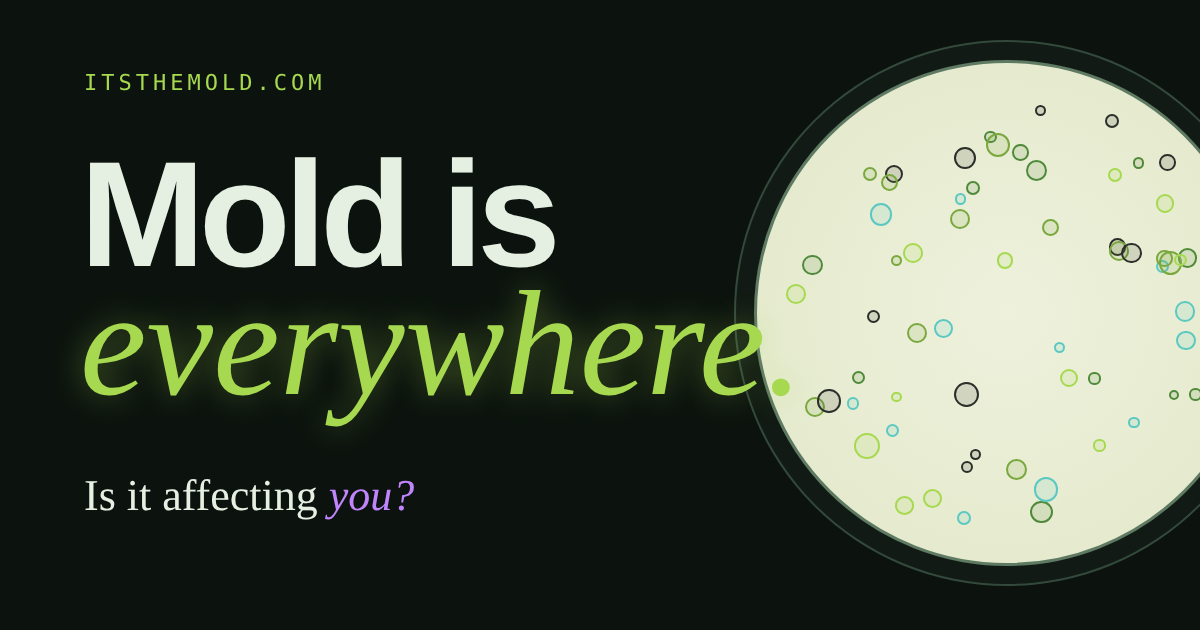
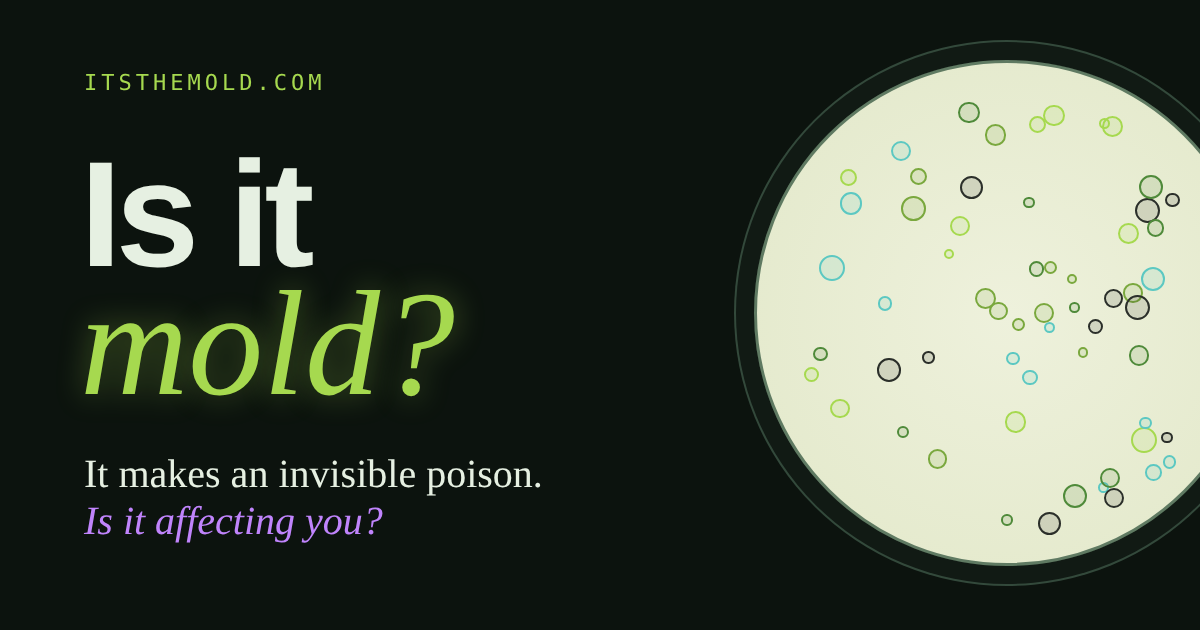
Lead with "Is it mold?" and the invisible mycotoxin story
New opening headline and a section right after it that shows mold
releasing invisible mycotoxins: a see/really-there room toggle, the
water-to-you chain, a size scale, every symptom group, and the quick
check moved below it. Menu, share text and image updated.

Claude-Session: https://claude.ai/code/session_01Ge5A7YUbemzf5xRVuKxGJ1

diff --git a/index.html b/index.html
@@ -3,9 +3,9 @@
 <head>
 <meta charset="utf-8">
 <meta name="viewport" content="width=device-width, initial-scale=1, viewport-fit=cover">
-<meta name="description" content="Mold is everywhere. Learn how mold and mycotoxins make you sick, where mold hides in your home, and how to clear it out with HOCl, chlorine dioxide and a full reset.">
+<meta name="description" content="Is it mold? Mold makes invisible poisons called mycotoxins that can affect your brain, breathing, energy and skin. Learn how and mycotoxins make you sick, where mold hides in your home, and how to clear it out with HOCl, chlorine dioxide and a full reset.">
 <meta property="og:title" content="It's The Mold">
-<meta property="og:description" content="Mold is everywhere. Is it affecting you?">
+<meta property="og:description" content="Mold makes an invisible poison. Could it be affecting you?">
 <meta property="og:url" content="https://itsthemold.com/">
 <meta property="og:image" content="https://itsthemold.com/og-image.png">
 <meta name="twitter:card" content="summary_large_image">
@@ -765,6 +765,82 @@ footer{position:relative;overflow:hidden;background:radial-gradient(70% 120% at 
 footer .wrap{position:relative}
 
 @media (prefers-reduced-motion:reduce){.creep,.ch-num::before{animation:none}}
+/* ===== hero + invisible toxin section ===== */
+.top h1{max-width:none}
+.top-lead{margin-top:22px;max-width:44ch;font-size:clamp(1.12rem,1.9vw,1.4rem);line-height:1.45;color:var(--text2)}
+.top-lead b{color:var(--magenta);font-weight:600}
+.top-cta{margin-top:30px;display:flex;flex-wrap:wrap;gap:12px}
+.btn-mold,.btn-ghost{display:inline-flex;align-items:center;padding:14px 22px;border-radius:99px;font-weight:600;text-decoration:none;font-size:1rem;transition:transform .2s,box-shadow .2s}
+.btn-mold{background:var(--mold);color:var(--void);box-shadow:0 0 30px rgba(166,217,79,.35)}
+.btn-ghost{border:1px solid var(--line-2);color:var(--ink);background:rgba(21,32,25,.7)}
+.btn-mold:hover,.btn-ghost:hover{transform:translateY(-2px)}
+.ticker{color:var(--ink)}
+#tick{color:var(--mold)}
+
+.inv{padding-block:clamp(56px,8vw,110px);background:radial-gradient(60% 50% at 80% 20%,rgba(192,132,252,.1),transparent 70%)}
+.inv-head{display:grid;gap:16px;justify-items:start;margin-bottom:clamp(28px,4vw,44px)}
+.inv-head h2{font-size:clamp(2.6rem,7.6vw,6rem);font-weight:700;font-variation-settings:"wdth" 80;line-height:.9;letter-spacing:-.04em;max-width:13ch}
+.inv-head h2 em.s{color:var(--magenta);text-shadow:0 0 34px rgba(192,132,252,.4)}
+.inv-head p{font-size:1.15rem;color:var(--text2);max-width:58ch}
+.inv-stage{padding:14px;display:grid;gap:12px}
+.inv-toggle{display:inline-flex;justify-self:start;padding:4px;border-radius:99px;border:1px solid var(--line-2);background:var(--deep)}
+.inv-toggle button{all:unset;cursor:pointer;padding:10px 18px;border-radius:99px;font-family:var(--f-mono);font-size:.72rem;letter-spacing:.1em;text-transform:uppercase;color:var(--muted);transition:.25s}
+.inv-toggle button[aria-selected="true"]{background:var(--magenta);color:var(--void)}
+.inv-toggle button:first-child[aria-selected="true"]{background:var(--ink)}
+.inv-toggle button:focus-visible{outline:2px solid var(--mold);outline-offset:2px}
+#room{width:100%;display:block;border-radius:16px;border:1px solid var(--line)}
+#room .toxins,#room .hits,#room .hit-labels{transition:opacity .7s}
+#room .clean-label{transition:opacity .7s;opacity:0}
+#room.see .toxins,#room.see .hits,#room.see .hit-labels{opacity:0}
+#room.see .clean-label{opacity:1}
+.inv-cap{font-size:1rem;color:var(--ink);padding:0 6px 6px;min-height:1.6em}
+.inv-cap b{color:var(--magenta)}
+.svgwrap{overflow-x:auto}
+
+.chain{list-style:none;margin:18px 0 0;padding:0;display:grid;grid-template-columns:repeat(4,minmax(0,1fr));gap:0;counter-reset:c;border:1px solid var(--line);border-radius:24px;overflow:hidden;background:var(--panel)}
+.chain li{padding:22px 22px 24px;display:grid;gap:8px;align-content:start;position:relative}
+.chain li+li{border-left:1px solid var(--line)}
+.chain li+li::before{content:"→";position:absolute;left:-12px;top:30px;width:22px;height:22px;border-radius:50%;background:var(--deep);border:1px solid var(--line-2);display:grid;place-items:center;font-size:.75rem;color:var(--muted);z-index:1}
+.ci{width:44px;height:44px;border-radius:50%;display:grid;place-items:center;border:1.5px solid var(--k);box-shadow:0 0 18px color-mix(in srgb,var(--k) 30%,transparent)}
+.ci svg{width:24px;height:24px}
+.chain b{font-family:var(--f-display);font-size:1.2rem;font-weight:600}
+.chain p{font-size:.92rem;color:var(--text2)}
+.chain li:nth-child(3){background:linear-gradient(180deg,rgba(192,132,252,.1),transparent)}
+.chain li:nth-child(3) b{color:var(--magenta)}
+
+.scale{margin-top:18px;padding:26px;display:grid;gap:20px}
+.scale-top{display:flex;justify-content:space-between;align-items:baseline;gap:12px;flex-wrap:wrap}
+.scale-top h3{font-size:1.5rem;font-weight:600}
+.scale-row{display:grid;grid-template-columns:repeat(4,minmax(0,1fr));gap:12px;align-items:end}
+.sz{display:grid;justify-items:center;text-align:center;gap:4px;padding:14px 8px;border-radius:16px}
+.sz i{display:block;width:var(--d);height:var(--d);border-radius:50%;background:var(--c,#bccbbd);box-shadow:0 0 18px var(--c,transparent);margin-bottom:10px}
+.sz:first-child i{width:100%;max-width:120px;height:6px;border-radius:3px;background:#8a7a5c;box-shadow:none;margin-bottom:24px}
+.sz b{font-size:1rem}
+.sz span{font-family:var(--f-mono);font-size:.72rem;color:var(--muted);font-variant-numeric:tabular-nums}
+.sz em{font-style:normal;font-size:.82rem;color:var(--text2)}
+.sz.hot{background:linear-gradient(180deg,rgba(192,132,252,.12),transparent);border:1px solid rgba(192,132,252,.35)}
+.sz.hot b,.sz.hot span{color:var(--magenta)}
+.sz.hot i{animation:pulse 1.6s ease-in-out infinite}
+@keyframes pulse{50%{transform:scale(1.8);opacity:.6}}
+.scale-note{font-size:.92rem;color:var(--text2);border-top:1px solid var(--line);padding-top:16px}
+
+.symgrid{display:grid;grid-template-columns:repeat(4,minmax(0,1fr));gap:14px}
+.sg{padding:22px;display:grid;gap:14px;align-content:start;border-top:3px solid var(--k)!important}
+.sg-top{display:flex;align-items:center;gap:12px}
+.sg-ic{width:44px;height:44px;border-radius:12px;display:grid;place-items:center;color:var(--k);background:color-mix(in srgb,var(--k) 14%,transparent)}
+.sg-ic svg{width:28px;height:28px}
+.sg h4{font-size:1.25rem;font-weight:600}
+.sg ul{list-style:none;margin:0;padding:0;display:flex;flex-wrap:wrap;gap:6px}
+.sg li{font-size:.86rem;padding:6px 10px;border-radius:99px;border:1px solid color-mix(in srgb,var(--k) 40%,transparent);color:var(--ink)}
+.sym-note{margin-top:14px;font-size:.86rem;color:var(--muted);max-width:80ch}
+
+.inv .check{margin-top:clamp(36px,5vw,56px);max-width:none;padding:clamp(20px,3vw,32px);gap:18px;border-color:rgba(166,217,79,.3)}
+.check-head{display:grid;gap:8px}
+.check-head .ask{margin-top:0;font-size:clamp(2rem,4.6vw,3.4rem)}
+.qc button{font-size:.98rem;padding:11px 16px}
+
+@media (max-width:980px){.symgrid{grid-template-columns:1fr 1fr}.chain{grid-template-columns:1fr 1fr}.chain li:nth-child(3){border-left:0}.chain li:nth-child(n+3){border-top:1px solid var(--line)}.chain li:nth-child(3)::before{display:none}}
+@media (max-width:620px){.symgrid,.chain{grid-template-columns:1fr}.chain li+li{border-left:0;border-top:1px solid var(--line)}.chain li+li::before{left:22px;top:-12px;content:"↓"}.chain li:nth-child(3)::before{display:grid}.scale-row{grid-template-columns:1fr 1fr}#room{min-width:620px}.svgwrap{margin:0 -4px}}
 </style>
 </head>
 <body>
@@ -782,7 +858,7 @@ footer .wrap{position:relative}
       <path d="M14 18 A18 18 0 0 1 24 12.6" fill="none" stroke="#fff" stroke-opacity=".7" stroke-width="1.6" stroke-linecap="round"/>
       <text x="58" y="41" font-size="34" font-weight="800" letter-spacing="-1.2" fill="#e6f0e2">its<tspan font-family="Instrument Serif, Georgia, serif" font-style="italic" font-weight="400" fill="#a6d94f" font-size="38" dx="2" letter-spacing="0">the</tspan><tspan dx="2">mold</tspan></text>
     </svg></a>
-    <nav class="menu" id="menu" aria-label="Site"><ul id="menu-list"><li><a href="#top">Start</a></li><li><a href="#sick">Sick</a></li><li><a href="#brain">Brain</a></li><li><a href="#toxins">Toxins</a></li><li><a href="#hides">Where it hides</a></li><li><a href="#fix">Solutions</a></li><li><a href="#body">Your body</a></li></ul></nav>
+    <nav class="menu" id="menu" aria-label="Site"><ul id="menu-list"><li><a href="#top">Start</a></li><li><a href="#invisible">The toxin</a></li><li><a href="#sick">How it gets in</a></li><li><a href="#brain">Brain</a></li><li><a href="#toxins">Molds</a></li><li><a href="#hides">Where it hides</a></li><li><a href="#fix">Solutions</a></li><li><a href="#body">Your body</a></li></ul></nav>
   </div>
   <div class="progress" id="progress"></div>
 </header>
@@ -790,25 +866,161 @@ footer .wrap{position:relative}
 <section class="top" id="top">
   <canvas id="swarm" aria-hidden="true"></canvas>
   <div class="wrap top-in">
-    <span class="eyebrow mono"><b>SAMPLE 01</b> Spores are too small to see</span>
-    <h1>Mold is <em class="s">everywhere.</em></h1>
-    <p class="ticker">It's in <span id="tick">the air you breathe.</span></p>
-    <p class="ask">Is it affecting <em class="s">you?</em></p>
-    <div class="check panel" aria-labelledby="qc-h">
-      <p class="mono" id="qc-h">Quick check · tap what sounds like you</p>
+    <span class="eyebrow mono"><b>SAMPLE 01</b> You can't see it</span>
+    <h1>Is it <em class="s">mold?</em></h1>
+    <p class="ticker">That <span id="tick">brain fog that won't lift.</span></p>
+    <p class="top-lead">Mold makes an invisible poison called <b>mycotoxins</b>. You can't see it. You can't smell it. But it can be the reason you feel sick.</p>
+    <div class="top-cta">
+      <a class="btn-mold" href="#invisible">See what's really in the air ↓</a>
+      <a class="btn-ghost" href="#check">Take the 30-second check</a>
+    </div>
+  </div>
+</section>
+
+<div class="creep" aria-hidden="true"></div>
+<section class="inv" id="invisible">
+  <div class="wrap">
+    <div class="inv-head">
+      <span class="eyebrow mono"><b>THE HIDDEN PART</b> What mold leaves in the air</span>
+      <h2>Mold makes a poison <em class="s">you can't see.</em></h2>
+      <p>Mold is the fuzzy part you can see. Mycotoxins are the poisons it makes, and they are thousands of times smaller. They ride on dust into the air you breathe, in a room that looks perfectly clean.</p>
+    </div>
+
+    <div class="inv-stage panel">
+      <div class="inv-toggle" role="tablist" aria-label="Choose a view">
+        <button type="button" role="tab" id="v-see" aria-selected="false">What you see</button>
+        <button type="button" role="tab" id="v-real" aria-selected="true">What's really there</button>
+      </div>
+      <div class="svgwrap"><svg viewBox="0 0 900 420" role="img" aria-label="A room with mold on the wall. In the real view, invisible mycotoxins drift from the mold into a person and reach the brain, nose, lungs, gut and skin." id="room" class="is-real">
+        <defs>
+          <radialGradient id="rmglow" cx="50%" cy="50%" r="50%"><stop offset="0" stop-color="#c084fc" stop-opacity=".55"/><stop offset="1" stop-color="#c084fc" stop-opacity="0"/></radialGradient>
+          <g id="tx"><polygon points="-6,0 -3,-5.2 3,-5.2 6,0 3,5.2 -3,5.2" fill="#2a1c3d" stroke="#c084fc" stroke-width="1.6"/><circle r="1.8" fill="#c084fc"/></g>
+          <path id="fl1" d="M150 150 C 300 110, 450 220, 530 120"/>
+          <path id="fl2" d="M170 210 C 320 260, 470 120, 540 175"/>
+          <path id="fl3" d="M130 260 C 280 330, 480 280, 545 235"/>
+          <path id="fl4" d="M190 120 C 360 40, 520 90, 530 95"/>
+          <path id="fl5" d="M160 300 C 330 380, 500 330, 540 290"/>
+        </defs>
+        <!-- room -->
+        <rect x="0" y="0" width="900" height="420" fill="#121c16"/>
+        <rect x="0" y="0" width="300" height="420" fill="#17241c"/>
+        <path d="M0 360 H900 V420 H0z" fill="#0e1611"/><path d="M0 360 H900" stroke="#2c3f33" stroke-width="2"/>
+        <path d="M300 0 V360" stroke="#22322a" stroke-width="2"/>
+        <!-- window -->
+        <rect x="380" y="50" width="130" height="110" rx="4" fill="#1b2a22" stroke="#33493b" stroke-width="3"/><path d="M445 50 v110 M380 105 h130" stroke="#33493b" stroke-width="2"/>
+        <!-- water stain + mold patch -->
+        <path d="M40 40 q40 -10 80 10 q50 30 40 90 q-10 60 30 110 q30 40 -10 70 q-60 30 -110 -10 q-40 -40 -20 -110 q10 -60 -10 -160z" fill="#3a3320" opacity=".45"/>
+        <g filter="url(#fuzzs)">
+          <circle cx="110" cy="160" r="46" fill="#2c4a25"/><circle cx="80" cy="220" r="38" fill="#24391f"/><circle cx="150" cy="230" r="30" fill="#3a5e2c"/><circle cx="120" cy="290" r="26" fill="#22331d"/><circle cx="70" cy="130" r="22" fill="#4f8a3a"/><circle cx="160" cy="130" r="16" fill="#a6d94f" opacity=".7"/><circle cx="60" cy="280" r="14" fill="#a6d94f" opacity=".55"/><circle cx="170" cy="180" r="10" fill="#5cc8c2" opacity=".5"/>
+          <circle cx="104" cy="166" r="14" fill="#1b2a17"/><circle cx="86" cy="226" r="11" fill="#1b2a17"/><circle cx="150" cy="236" r="9" fill="#1b2a17"/>
+          <animateTransform attributeName="transform" type="scale" values="1;1.025;1" dur="5s" repeatCount="indefinite" additive="sum"/>
+        </g>
+        <text x="40" y="345" class="rl" font-family="Geist Mono,monospace" font-size="12" letter-spacing="1.5" fill="#a6d94f">MOLD · YOU CAN SEE THIS</text>
+        <g transform="translate(-110 0)">
+        <!-- person -->
+        <g id="person">
+          <circle cx="720" cy="92" r="34" fill="#1d2b23" stroke="#bccbbd" stroke-width="2.4"/>
+          <path d="M672 360 V200 q0 -60 48 -66 q48 6 48 66 V360" fill="#1d2b23" stroke="#bccbbd" stroke-width="2.4"/>
+          <path d="M672 210 q-30 40 -26 110 M768 210 q30 40 26 110" fill="none" stroke="#bccbbd" stroke-width="2.4" stroke-linecap="round"/>
+        </g>
+        <!-- hit points on person -->
+        <g class="hits">
+          <g><circle cx="720" cy="80" r="18" fill="url(#rmglow)"><animate attributeName="r" values="12;24;12" dur="2.2s" repeatCount="indefinite"/></circle><circle cx="720" cy="80" r="4" fill="#c084fc"/></g>
+          <g><circle cx="738" cy="104" r="14" fill="url(#rmglow)"><animate attributeName="r" values="10;18;10" dur="2s" begin="-.4s" repeatCount="indefinite"/></circle><circle cx="738" cy="104" r="3.4" fill="#c084fc"/></g>
+          <g><circle cx="706" cy="190" r="18" fill="url(#rmglow)"><animate attributeName="r" values="12;24;12" dur="2.4s" begin="-.8s" repeatCount="indefinite"/></circle><circle cx="706" cy="190" r="4" fill="#c084fc"/></g>
+          <g><circle cx="726" cy="262" r="16" fill="url(#rmglow)"><animate attributeName="r" values="10;22;10" dur="2.6s" begin="-1.2s" repeatCount="indefinite"/></circle><circle cx="726" cy="262" r="4" fill="#c084fc"/></g>
+          <g><circle cx="652" cy="290" r="14" fill="url(#rmglow)"><animate attributeName="r" values="8;18;8" dur="2.2s" begin="-1.6s" repeatCount="indefinite"/></circle><circle cx="652" cy="290" r="3.4" fill="#c084fc"/></g>
+        </g>
+        <g class="hit-labels" font-family="Geist Mono,monospace" font-size="11.5" letter-spacing="1.2" fill="#e6f0e2">
+          <text x="770" y="62">BRAIN FOG · HEADACHES</text>
+          <text x="782" y="110">STUFFY NOSE · SINUS</text>
+          <text x="782" y="194">COUGH · TIGHT CHEST</text>
+          <text x="782" y="266">NAUSEA · FATIGUE</text>
+          <text x="632" y="294" text-anchor="end">RASHES · ACHES</text>
+        </g>
+        </g>
+        <!-- toxins in the air -->
+        <g class="toxins">
+          <use href="#tx"><animateMotion dur="5s" repeatCount="indefinite"><mpath href="#fl1"/></animateMotion></use>
+          <use href="#tx"><animateMotion dur="5s" begin="-2.5s" repeatCount="indefinite"><mpath href="#fl1"/></animateMotion></use>
+          <use href="#tx"><animateMotion dur="5.6s" begin="-1s" repeatCount="indefinite"><mpath href="#fl2"/></animateMotion></use>
+          <use href="#tx"><animateMotion dur="5.6s" begin="-3.8s" repeatCount="indefinite"><mpath href="#fl2"/></animateMotion></use>
+          <use href="#tx"><animateMotion dur="6s" begin="-2s" repeatCount="indefinite"><mpath href="#fl3"/></animateMotion></use>
+          <use href="#tx"><animateMotion dur="6s" begin="-4.6s" repeatCount="indefinite"><mpath href="#fl3"/></animateMotion></use>
+          <use href="#tx"><animateMotion dur="5.2s" begin="-.5s" repeatCount="indefinite"><mpath href="#fl4"/></animateMotion></use>
+          <use href="#tx"><animateMotion dur="5.2s" begin="-3s" repeatCount="indefinite"><mpath href="#fl4"/></animateMotion></use>
+          <use href="#tx"><animateMotion dur="6.4s" begin="-1.4s" repeatCount="indefinite"><mpath href="#fl5"/></animateMotion></use>
+          <use href="#tx"><animateMotion dur="6.4s" begin="-4.2s" repeatCount="indefinite"><mpath href="#fl5"/></animateMotion></use>
+          <g fill="#c084fc" opacity=".55">
+            <circle r="1.6"><animateMotion dur="4.2s" repeatCount="indefinite"><mpath href="#fl2"/></animateMotion></circle>
+            <circle r="1.4"><animateMotion dur="3.8s" begin="-1.6s" repeatCount="indefinite"><mpath href="#fl1"/></animateMotion></circle>
+            <circle r="1.6"><animateMotion dur="4.6s" begin="-2.2s" repeatCount="indefinite"><mpath href="#fl3"/></animateMotion></circle>
+            <circle r="1.3"><animateMotion dur="4s" begin="-3s" repeatCount="indefinite"><mpath href="#fl4"/></animateMotion></circle>
+            <circle r="1.5"><animateMotion dur="4.4s" begin="-.8s" repeatCount="indefinite"><mpath href="#fl5"/></animateMotion></circle>
+          </g>
+          <text x="330" y="398" text-anchor="middle" font-family="Geist Mono,monospace" font-size="12" letter-spacing="1.5" fill="#c084fc">MYCOTOXINS · INVISIBLE · NO SMELL</text>
+        </g>
+        <g class="clean-label"><text x="480" y="250" text-anchor="middle" font-family="Geist Mono,monospace" font-size="13" letter-spacing="1.6" fill="#8fa392">THE AIR LOOKS CLEAN</text></g>
+      </svg></div>
+      <p class="inv-cap" id="inv-cap">Toxins ride on dust from the mold to you. They reach your brain, nose, lungs, gut and skin.</p>
+    </div>
+
+    <ol class="chain">
+      <li><span class="ci" style="--k:var(--amber)"><svg viewBox="0 0 24 24" aria-hidden="true"><path d="M12 3 q-7 9 -7 13 a7 7 0 0 0 14 0 q0 -4 -7 -13z" fill="none" stroke="#e3b341" stroke-width="2"/></svg></span><b>Water gets in</b><p>A leak, a flood, high humidity or a sweaty window. Mold needs 24–48 hours to start.</p></li>
+      <li><span class="ci" style="--k:var(--mold)"><svg viewBox="0 0 24 24" aria-hidden="true"><g filter="url(#fuzzs)"><circle cx="12" cy="12" r="7" fill="#a6d94f"/><circle cx="12" cy="12" r="3" fill="#3a5e2c"/></g></svg></span><b>Mold grows</b><p>Often where you can't see it: behind walls, under floors, inside the AC.</p></li>
+      <li><span class="ci" style="--k:var(--magenta)"><svg viewBox="0 0 24 24" aria-hidden="true"><polygon points="4,12 8,5 16,5 20,12 16,19 8,19" fill="none" stroke="#c084fc" stroke-width="2"/><circle cx="12" cy="12" r="2.4" fill="#c084fc"/></svg></span><b>It releases mycotoxins</b><p>Invisible poisons with no smell. They stick to dust and float through the whole home.</p></li>
+      <li><span class="ci" style="--k:var(--ink)"><svg viewBox="0 0 24 24" aria-hidden="true"><circle cx="12" cy="6" r="3.4" fill="none" stroke="#e6f0e2" stroke-width="2"/><path d="M5 22 v-6 q0 -6 7 -6 q7 0 7 6 v6" fill="none" stroke="#e6f0e2" stroke-width="2"/></svg></span><b>You breathe them in</b><p>Every day you're home. Your body reacts, and it can look like a lot of other problems.</p></li>
+    </ol>
+
+    <div class="scale panel">
+      <div class="scale-top"><h3>How small is a mycotoxin?</h3><span class="mono muted">Each step is about 10× smaller</span></div>
+      <div class="scale-row">
+        <div class="sz"><i style="--d:96px"></i><b>Human hair</b><span>~70 µm wide</span><em>You can see it</em></div>
+        <div class="sz"><i style="--d:40px;--c:var(--moss)"></i><b>Mold spore</b><span>2–10 µm</span><em>Need a microscope</em></div>
+        <div class="sz"><i style="--d:14px;--c:var(--cyan)"></i><b>Mold fragment</b><span>under 1 µm</span><em>Passes most filters</em></div>
+        <div class="sz hot"><i style="--d:4px;--c:var(--magenta)"></i><b>Mycotoxin</b><span>about 1 nanometer</span><em>A single molecule</em></div>
+      </div>
+      <p class="scale-note">The musty smell comes from gases the mold gives off, not from the toxins. Mycotoxins have no smell, so a home can smell fine and still have them.</p>
+    </div>
+
+    <div class="sub-h"><h3>Mycotoxins can show up as</h3><span class="mono">Every part of you</span></div>
+    <div class="symgrid">
+      <article class="sg panel" style="--k:var(--magenta)">
+        <div class="sg-top"><span class="sg-ic"><svg viewBox="0 0 40 40" aria-hidden="true"><path d="M20 6 c-8 0 -13 5 -13 11 c0 4 2 6 2 9 c0 4 4 7 8 7 h6 c4 0 8 -3 8 -7 c0 -3 2 -5 2 -9 c0 -6 -5 -11 -13 -11z" fill="none" stroke="currentColor" stroke-width="2.2"/><path d="M20 8 v24 M13 15 q4 2 7 0 M20 20 q4 2 7 0" fill="none" stroke="currentColor" stroke-width="1.6"/></svg></span><h4>Brain &amp; mood</h4></div>
+        <ul><li>Brain fog</li><li>Headaches</li><li>Trouble focusing</li><li>Memory slips</li><li>Anxiety or low mood</li><li>Dizziness</li></ul>
+      </article>
+      <article class="sg panel" style="--k:var(--cyan)">
+        <div class="sg-top"><span class="sg-ic"><svg viewBox="0 0 40 40" aria-hidden="true"><path d="M20 6 v12 M20 18 q-4 2 -8 6 q-5 6 -4 10 q2 2 6 0 q4 -3 6 -10 M20 18 q4 2 8 6 q5 6 4 10 q-2 2 -6 0 q-4 -3 -6 -10" fill="none" stroke="currentColor" stroke-width="2.2" stroke-linejoin="round"/></svg></span><h4>Breathing</h4></div>
+        <ul><li>Stuffy nose that won't quit</li><li>Sinus pressure</li><li>Cough or wheeze</li><li>Asthma flares</li><li>Sore throat</li><li>Itchy, watery eyes</li></ul>
+      </article>
+      <article class="sg panel" style="--k:var(--amber)">
+        <div class="sg-top"><span class="sg-ic"><svg viewBox="0 0 40 40" aria-hidden="true"><rect x="7" y="13" width="22" height="14" rx="3" fill="none" stroke="currentColor" stroke-width="2.2"/><rect x="29" y="17" width="4" height="6" rx="1" fill="currentColor"/><rect x="10" y="16" width="5" height="8" rx="1" fill="currentColor"/></svg></span><h4>Energy &amp; sleep</h4></div>
+        <ul><li>Tired no matter how much you sleep</li><li>Poor sleep</li><li>Weakness</li><li>Feeling “off” at home</li><li>Better when you travel</li></ul>
+      </article>
+      <article class="sg panel" style="--k:var(--mold)">
+        <div class="sg-top"><span class="sg-ic"><svg viewBox="0 0 40 40" aria-hidden="true"><circle cx="20" cy="9" r="4" fill="none" stroke="currentColor" stroke-width="2.2"/><path d="M12 36 v-12 q0 -9 8 -9 q8 0 8 9 v12" fill="none" stroke="currentColor" stroke-width="2.2"/><circle cx="17" cy="24" r="1.6" fill="currentColor"/><circle cx="23" cy="28" r="1.6" fill="currentColor"/></svg></span><h4>Body &amp; skin</h4></div>
+        <ul><li>Muscle or joint aches</li><li>Rashes and itchy skin</li><li>Nausea or belly upset</li><li>Sensitive to smells and chemicals</li><li>Numbness or tingling</li></ul>
+      </article>
+    </div>
+    <p class="sym-note">The link between damp, moldy homes and breathing problems is well proven. The other symptoms are commonly reported by people living in water-damaged buildings and are still being studied. Many other things can cause them too, so talk to a doctor.</p>
+
+    <div class="check panel" id="check" aria-labelledby="qc-h">
+      <div class="check-head"><p class="ask">Could mold be affecting <em class="s">you?</em></p><p class="mono" id="qc-h">Tap everything that sounds like you</p></div>
       <div class="qc" id="qc">
         <button type="button" aria-pressed="false">Stuffy nose that won't quit</button>
         <button type="button" aria-pressed="false">Brain fog</button>
         <button type="button" aria-pressed="false">Headaches</button>
         <button type="button" aria-pressed="false">Tired no matter what</button>
-        <button type="button" aria-pressed="false">Musty smell at home</button>
-        <button type="button" aria-pressed="false">Feel better when you travel</button>
         <button type="button" aria-pressed="false">Cough or wheeze</button>
+        <button type="button" aria-pressed="false">Achy or itchy</button>
+        <button type="button" aria-pressed="false">Musty smell at home</button>
         <button type="button" aria-pressed="false">Water leak in the past</button>
+        <button type="button" aria-pressed="false">Feel better when you travel</button>
+        <button type="button" aria-pressed="false">Others at home feel it too</button>
       </div>
       <div class="qc-out">
         <p id="qc-msg"><b id="qc-n">0</b> <span>Tap any that fit.</span></p>
-        <div class="qc-cta"><a href="#sick">See how it makes you sick ↓</a><a href="#fix" class="hot">Jump to solutions →</a></div>
+        <div class="qc-cta"><a href="#sick">See how it gets in ↓</a><a href="#hides">Find where it hides</a><a href="#fix" class="hot">Get rid of it →</a></div>
       </div>
     </div>
   </div>
@@ -818,9 +1030,9 @@ footer .wrap{position:relative}
 <section class="sick" id="sick">
   <div class="wrap">
     <div class="sick-head">
-      <span class="eyebrow mono"><b>SAMPLE 02</b> What happens next</span>
+      <span class="eyebrow mono"><b>SAMPLE 02</b> How it gets in</span>
       <h2>Mold makes you <em class="s">sick.</em></h2>
-      <p>Here's how it gets you, in five moves. Tap one to see where it happens.</p>
+      <p>Here's the path mycotoxins and spores take through your body, in five moves. Tap one to see where it happens.</p>
     </div>
     <div class="sick-grid">
       <div class="body-fig panel">
@@ -1618,13 +1830,24 @@ function growMold(c,host,opt){
 (()=>{
   growMold($('#swarm'),$('.top'));
   growMold($('#footcolony'),$('footer'),{max:5,seed:4,bg:null,interact:false,spores:false});
-  const words=['the air you breathe.','the wall behind your shower.','the cabinet under your sink.','your AC vents.','the basement carpet.','that “old house” smell.','your lungs. Right now?'];
+  const words=['brain fog that won\'t lift.','stuffy nose that never clears.','headache every afternoon.','tired that sleep won\'t fix.','cough that hangs on.','feeling better when you leave home.'];
   let wi=0;const tk=$('#tick');
   if(!REDUCE)setInterval(()=>{tk.classList.add('out');setTimeout(()=>{wi=(wi+1)%words.length;tk.textContent=words[wi];tk.classList.remove('out')},350)},2200);
   const btns=$$('#qc button'),n=$('#qc-n'),msg=$('#qc-msg span');
   btns.forEach(b=>b.addEventListener('click',()=>{b.setAttribute('aria-pressed',b.getAttribute('aria-pressed')!=='true');
     const k=btns.filter(z=>z.getAttribute('aria-pressed')==='true').length;n.textContent=k;
-    msg.textContent=k===0?'Tap any that fit.':k<3?'Worth a closer look. Keep scrolling.':'Your home may be trying to tell you something.';}));
+    msg.textContent=k===0?'Tap any that fit.':k<3?'Could be mold. Worth a closer look at your home.':k<5?'Strong signs. Mold could be affecting you. Start looking for water and mold.':'Many signs point to mold. Check your home and talk to a doctor.';}));
+})();
+
+
+/* ================= WHAT YOU SEE / WHAT'S REALLY THERE ================= */
+(()=>{
+  const room=$('#room'),bs=$('#v-see'),br=$('#v-real'),cap=$('#inv-cap');let auto=true,real=true,tm;
+  const caps={see:'Looks like a normal room. Just a stain on the wall.',real:'Toxins ride on dust from the mold to you. They reach your brain, nose, lungs, gut and skin.'};
+  function set(r){real=r;room.classList.toggle('see',!r);room.classList.toggle('is-real',r);bs.setAttribute('aria-selected',!r);br.setAttribute('aria-selected',r);cap.innerHTML=r?'<b>What\'s really there:</b> '+caps.real:'<b>What you see:</b> '+caps.see}
+  bs.addEventListener('click',()=>{auto=false;set(false)});br.addEventListener('click',()=>{auto=false;set(true)});
+  set(true);
+  if(!REDUCE){let vis=false;onScreen(room,v=>vis=v);tm=setInterval(()=>{if(auto&&vis)set(!real)},4200)}
 })();
 
 /* ================= HOW IT MAKES YOU SICK ================= */
